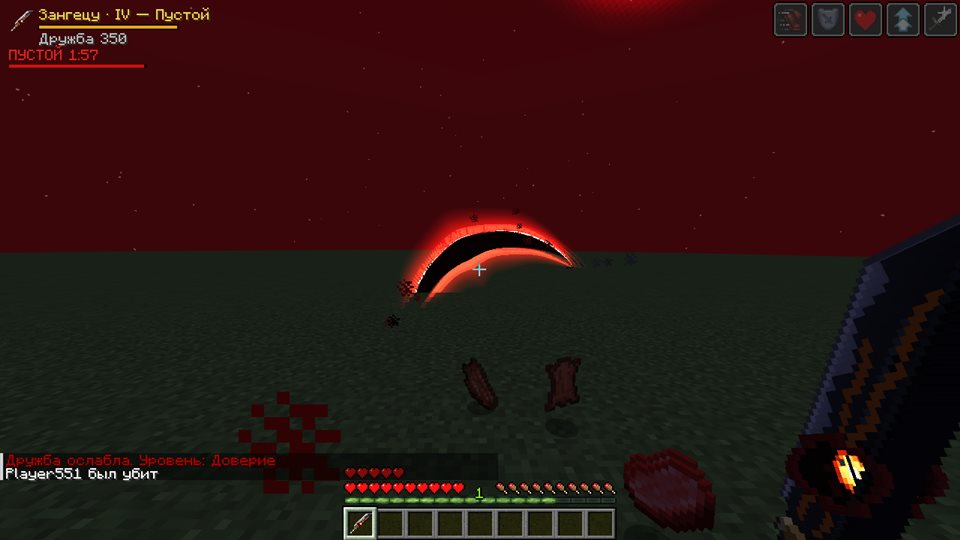
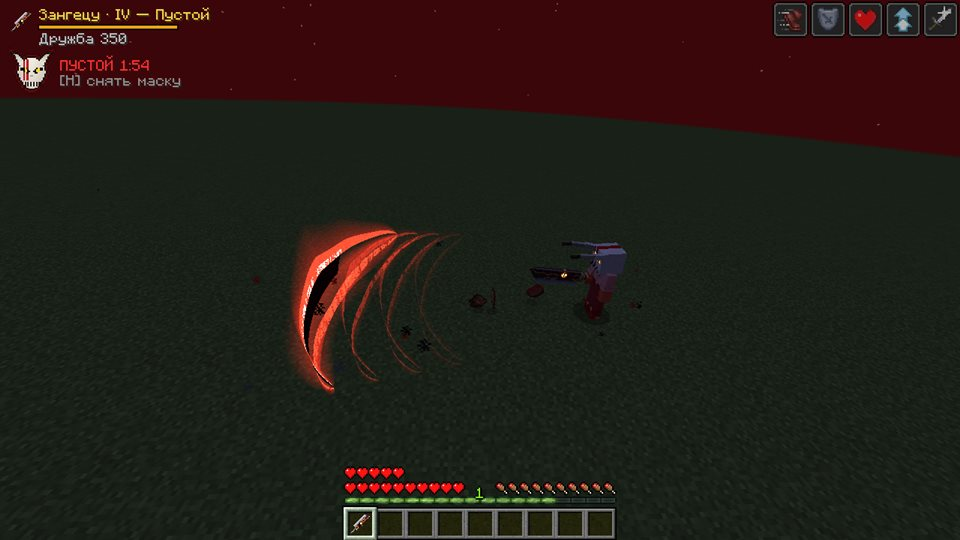
Release 1.2.0: big 3D sword, flat Getsuga, cracking mask with a mask HUD

diff --git a/README.md b/README.md
@@ -9,11 +9,13 @@
 | ![Касание рукояти](docs/touch.jpg) | ![Объёмный меч в руке](docs/sword_3p.jpg) |
 | *Коснулся рукояти — меч выбрал тебя* | *Объёмный Зангецу: лезвие вниз, глаз живой* |
 | ![Гецуга Теншо](docs/getsuga.jpg) | ![Стрелы рассечены пополам](docs/arrows.jpg) |
-| *Гецуга Теншо — чёрный серп с алым светом* | *Ночью меч рассекает стрелы пополам* |
+| *Гецуга Теншо — горизонтальная волна чёрной энергии* | *Ночью меч рассекает стрелы пополам* |
 | ![Зомби без рук](docs/zombie_arms.jpg) | ![Казнь](docs/execution.jpg) |
 | *Обе руки отсечены — можно казнить* | *Казнь: голова отлетает* |
-| ![Эндермен рассечён пополам](docs/enderman.jpg) | ![Маска Пустого](docs/hollow_mask.jpg) |
-| *Эндермен без колен рассечён пополам* | *Форма Пустого: маска, рога, горящий глаз* |
+| ![Эндермен рассечён пополам](docs/enderman.jpg) | ![Маска Пустого трескается](docs/hollow_mask.jpg) |
+| *Эндермен без колен рассечён пополам* | *Маска Пустого трескается, когда время на исходе* |
+| ![Меч от первого лица](docs/first_person.jpg) | ![Маска-индикатор](docs/hollow_mask.jpg) |
+| *Объёмный Зангецу от первого лица* | *Время формы Пустого — маска в углу экрана* |
 | ![Серповидная луна](docs/crescent_moon.jpg) | ![Сон с сотнями мечей](docs/dream.jpg) |
 | *Обычная луна исчезает — в небе кровавый серп* | *Сон: бескрайние холмы и сотни мечей* |
 
@@ -72,11 +74,11 @@
 
 ### Форма Пустого
 
-На IV уровне клавиша **H** превращает тебя в Пустого: ты раскидываешь руки и ревёшь, на лице нарастает костяная **маска с алыми полосами и длинными рогами**, за спиной — рыжие волосы, в груди — дыра. **Глаз меча горит**, обычная луна исчезает, а высоко в небе проступает **кровавая серповидная луна** — небо и туман краснеют (это видят все рядом).
+На IV уровне клавиша **H** превращает тебя в Пустого: ты раскидываешь руки и ревёшь, на лице нарастает костяная **маска с алыми полосами и длинными рогами**. **Глаз меча горит**, обычная луна исчезает, а высоко в небе проступает **кровавая серповидная луна** — небо и туман краснеют (это видят все рядом).
 
 В этой форме: сила, скорость, сопротивление урону, регенерация, все способности меча работают даже днём, парирование — всегда. **ПКМ с мечом** — **Гецуга Теншо**: огромный чёрный серп с алым свечением и раскалённой кромкой срывается с клинка, оставляя шлейф, и рубит злых мобов на своём пути.
 
-На всё — **2 минуты в игровые сутки**, их можно тратить частями (H ещё раз — снять маску). Когда время выходит, маска раскалывается, и ты ненадолго истощён.
+На всё — **2 минуты в игровые сутки**, их можно тратить частями (H ещё раз — снять маску). Сколько осталось, показывает **маска в углу экрана**: светлая часть тает сверху вниз. На 30 секундах маска трескается, на 15 от неё откалывается кусок, на 5 она почти рассыпается — а потом раскалывается, и ты ненадолго истощён.
 
 ## Управление
 

diff --git a/CHANGELOG.md b/CHANGELOG.md
@@ -1,5 +1,13 @@
 # Изменения
 
+## 1.2.0
+
+- Зангецу — настоящая объёмная модель и стал больше: широкий клинок-тесак со скосами, толстый обух, серебряная кромка, скошенное остриё с долом, восьмигранная рукоять в оплётке, навершие и латунная муфта. Модель видна объёмной и от первого лица — там меч держится по-новому: рукоять в кулаке, клинок уходит к середине экрана, глаз смотрит на тебя.
+- Глаз на клинке в 4 раза чётче: лучистая радужка, прожилки на белке, веки со складками.
+- Гецуга Теншо летит горизонтально, как волна от горизонтального взмаха: изогнутая вперёд стена чёрной энергии с алым свечением и раскалёнными кромками.
+- Маска Пустого — без волос, только маска с рогами. На 30 секундах она трескается, на 15 откалывается кусок и ломается кончик рога, на 5 почти рассыпается (рога сломаны, глаза мерцают), затем раскалывается.
+- Время формы Пустого показывает маска в интерфейсе: светлая часть тает сверху вниз, маска трескается вместе с настоящей и пульсирует алым.
+
 ## 1.1.0
 
 - Зангецу стал объёмным: клинок собран из слоёв разной толщины — толстые рукоять и обух, тонкая кромка-фаска.
